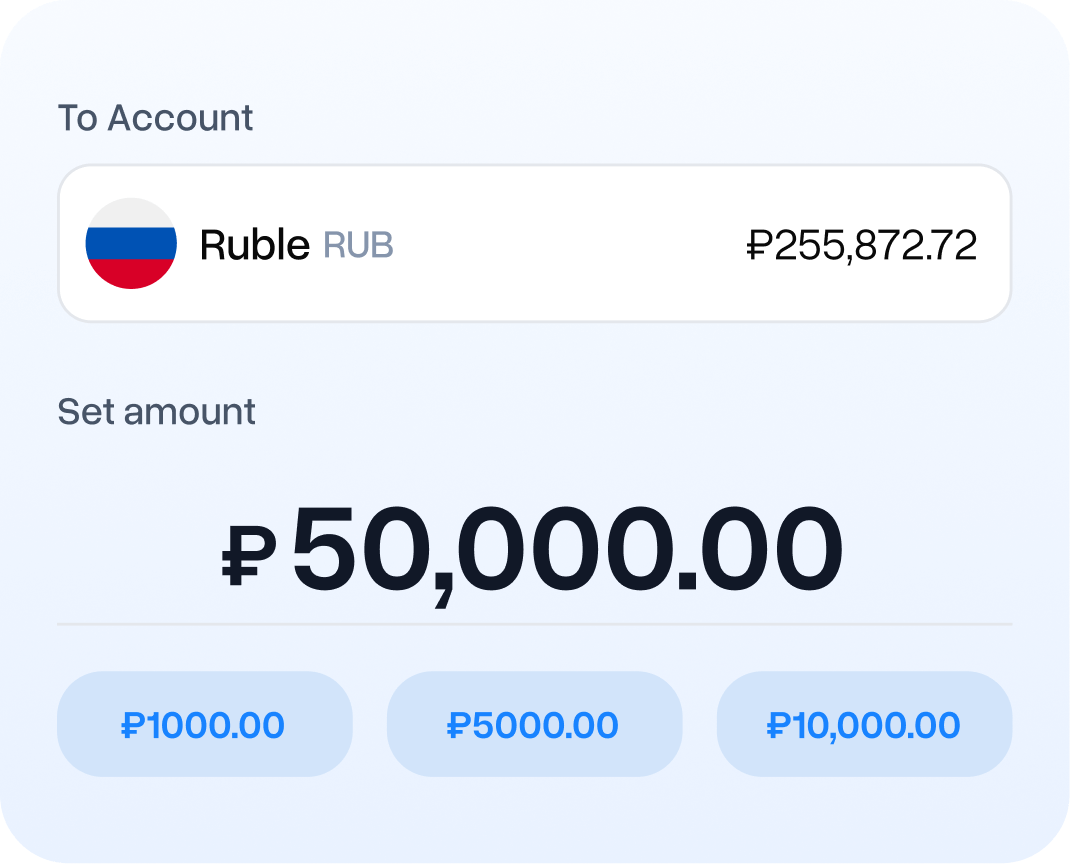
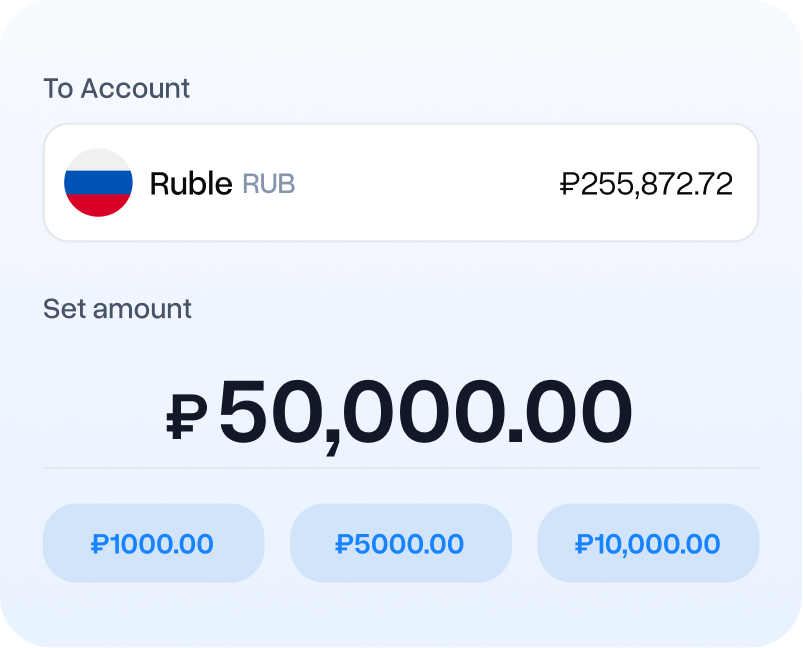
Content & blocks update

diff --git a/styles/style.css b/styles/style.css
@@ -37,7 +37,7 @@
   font-size: var(--font-size-82);
   color: var(--text-title-black);
   font-weight: 500;
-  letter-spacing: -2px;
+  letter-spacing: -1px;
   text-align: center;
   line-height: 106%;
   margin-bottom: var(--spacing-40);
@@ -95,7 +95,7 @@
   font-size: var(--font-size-52);
   font-weight: 500;
   line-height: 106%;
-  letter-spacing: -2px;
+  letter-spacing: -1px;
   border-bottom: 1px solid var(--bg-seperator);
   padding-bottom: var(--spacing-5);
   border-radius: 0;
@@ -203,6 +203,13 @@
 }
 /* exchange block */
 
+/* swap now */
+.swap-now {
+  display: flex;
+  justify-content: center;
+}
+/* swap now */
+
 /* currency rate block */
 .currency-rate {
   display: flex;
@@ -230,14 +237,14 @@
   font-size: var(--font-size-30);
   margin-bottom: var(--spacing-64);
   font-weight: 400;
-  letter-spacing: -2px;
+  letter-spacing: -1px;
   line-height: 120%;
   color: var(--text-title-black);
 }
 
 .currency-rate .range-block .text-notice,
 .currency-rate .chart-block .text-notice {
-  letter-spacing: -2px;
+  letter-spacing: -1px;
   font-size: var(--font-size-24);
   color: var(--text-gray);
   line-height: 120%;
@@ -457,7 +464,7 @@
 .gsap-container .gsap-image.robo .text-box-robo h3 {
   font-size: var(--font-size-80);
   font-weight: 500;
-  letter-spacing: -2px;
+  letter-spacing: -1px;
   background: linear-gradient(
     143deg,
     #fff 18.17%,
@@ -479,7 +486,7 @@
   position: absolute;
   left: 0;
   bottom: 0;
-  letter-spacing: -2px;
+  letter-spacing: -1px;
   width: 100%;
   padding-inline: 7.5% 10%;
   padding-bottom: 10%;
@@ -517,7 +524,7 @@
 .gsap-container .gsap-image.spiral .text-box-spiral h3 {
   font-size: var(--font-size-80);
   font-weight: 500;
-  letter-spacing: -2px;
+  letter-spacing: -1px;
   background: linear-gradient(
     143deg,
     #fff 18.17%,
@@ -534,7 +541,7 @@
   font-size: var(--font-size-30);
   color: var(--text-transparent);
   margin-bottom: var(--spacing-32);
-  letter-spacing: -2px;
+  letter-spacing: -1px;
 }
 
 .gsap-container-mobile {
@@ -569,7 +576,7 @@
   margin-bottom: -5px;
   line-height: 100%;
   font-size: var(--font-size-62);
-  letter-spacing: -2px;
+  letter-spacing: -1px;
   font-weight: 400;
   background: linear-gradient(
     143deg,
@@ -595,7 +602,7 @@
 .beyond-transactions .text-block .statistics h3 {
   color: var(--text-white);
   font-weight: 500;
-  letter-spacing: -2px;
+  letter-spacing: -1px;
   font-size: var(--font-size-96);
 }
 
@@ -633,7 +640,7 @@
 .beyond-transactions .cards-block .card-image h5 {
   font-size: var(--font-size-36);
   font-weight: 400;
-  letter-spacing: -2px;
+  letter-spacing: -1px;
   color: var(--text-white);
   margin-bottom: var(--spacing-15);
 }
@@ -716,7 +723,7 @@
 
 .tabs-block .tabcontent .info-block h3 {
   font-size: var(--font-size-62);
-  letter-spacing: -2px;
+  letter-spacing: -1px;
   font-weight: 500;
   margin-bottom: var(--spacing-74);
 }
@@ -730,7 +737,7 @@
   color: var(--text-body);
   font-size: var(--font-size-22);
   margin-top: var(--spacing-5);
-  letter-spacing: -2px;
+  letter-spacing: -1px;
 }
 
 .tabs-block .tabcontent .image-block {
@@ -770,7 +777,7 @@
 .map .map-heading {
   font-size: var(--font-size-80);
   font-weight: 500;
-  letter-spacing: -2px;
+  letter-spacing: -1px;
   text-align: center;
   background: linear-gradient(
     142.89deg,
@@ -791,11 +798,13 @@
 
 .map .map-image {
   padding: 0 var(--spacing-64) var(--spacing-238) var(--spacing-64);
-  margin-top: var(--spacing-50);
+  margin-top: var(--spacing-120);
+  display: flex;
+  justify-content: center;
 }
 
 .map .map-image img {
-  width: 100%;
+  width: 53.5%;
 }
 
 /* animated cards block */
@@ -883,7 +892,7 @@
 .animated-cards .cards-wrapper.slide-cards .card-item {
   transform: translateX(0);
   font-weight: 500;
-  letter-spacing: -2px;
+  letter-spacing: -1px;
 }
 
 .animated-cards.ru .cards-wrapper .card-item p {
@@ -973,10 +982,7 @@
   letter-spacing: -4px;
   text-align: center;
   line-height: 100%;
-}
-
-.the-future-arrived .content-block h2 .text-move {
-  display: inline-block;
+  transform: translateY(-30%);
 }
 
 .the-future-arrived .content-block .scalable-element {
@@ -991,6 +997,7 @@
   border-radius: 100px;
   background: url("../public/media/images/planet.jpg") center no-repeat;
   background-size: cover;
+  transform: scale(0.1) translateY(130%);
 }
 
 .the-future-arrived .content-block .scalable-element .text-box {
@@ -1014,7 +1021,7 @@
   -webkit-text-fill-color: transparent;
   font-size: var(--font-size-116);
   font-weight: 500;
-  letter-spacing: -2px;
+  letter-spacing: -1px;
   margin-bottom: var(--spacing-40);
 }
 
@@ -1184,6 +1191,7 @@
     overflow-x: auto;
     overflow-y: hidden;
     -webkit-overflow-scrolling: touch;
+    margin-bottom: var(--spacing-20);
   }
 
   .tabs-block .tabs .tablinks {
@@ -1505,89 +1513,5 @@
 }
 
 /* just for last block */
-@media (min-width: 320px) {
-  .the-future-arrived .content-block .scalable-element {
-    transform: scale(0.1) translate(0, 60%);
-  }
-
-  .the-future-arrived .content-block .text-move {
-    padding-left: 2rem;
-  }
-}
-
-/* just for last block */
-@media (min-width: 400px) {
-  .the-future-arrived .content-block .scalable-element {
-    transform: scale(0.1) translate(-65%, 60%);
-  }
-
-  .the-future-arrived .content-block .text-move {
-    padding-left: 2rem;
-  }
-}
-
-@media (min-width: 720px) {
-  .the-future-arrived .content-block .scalable-element {
-    transform: scale(0.1) translate(-70%, 70%);
-  }
-
-  .the-future-arrived .content-block .text-move {
-    padding-left: 4rem;
-  }
-}
-
-@media (min-width: 1024px) {
-  .the-future-arrived .content-block .scalable-element {
-    transform: scale(0.1) translate(-50%, 70%);
-  }
-
-  .the-future-arrived .content-block .text-move {
-    padding-left: 5rem;
-  }
-}
-
-@media (min-width: 1280px) {
-  .the-future-arrived .content-block .scalable-element {
-    transform: scale(0.1) translate(-45%, 80%);
-  }
-
-  .the-future-arrived .content-block .text-move {
-    padding-left: 6rem;
-  }
-}
-
-@media (min-width: 1440px) {
-  .the-future-arrived .content-block .scalable-element {
-    transform: scale(0.1) translate(-50%, 90%);
-  }
-
-  .the-future-arrived .content-block .text-move {
-    padding-left: 5rem;
-  }
-}
-
-@media (min-width: 1600px) {
-  .the-future-arrived .content-block .scalable-element {
-    transform: scale(0.1) translate(-45%, 80%);
-  }
-
-  .the-future-arrived .content-block .scalable-element {
-    transform: scale(0.1) translate(-80%, 80%);
-  }
-}
-
-@media (min-width: 1920px) {
-  .the-future-arrived .content-block .scalable-element {
-    transform: scale(0.1) translate(-37%, 80%);
-  }
-
-  .the-future-arrived.ru .content-block .scalable-element {
-    transform: scale(0.1) translate(-65%, 80%);
-  }
-
-  .the-future-arrived .content-block .text-move {
-    padding-left: 7rem;
-  }
-}
 
 /* just for last block */

diff --git a/ru/index.html b/ru/index.html
@@ -109,7 +109,7 @@
         />
       </section>
 
-      <section class="exchange mb-120">
+      <section class="exchange">
         <div class="exchange-wrapper">
           <div class="exchange-card" id="exchangeWrapperFirst">
             <div class="inputWrapper" id="inputWrapperFirst">
@@ -245,6 +245,10 @@
             </div>
           </div>
         </div>
+      </section>
+
+      <section class="swap-now mb-120">
+        <button class="button">Обменять сейчас</button>
       </section>
 
       <section class="animated-cards ru mb-70">
@@ -450,7 +454,7 @@
           <span class="text-blue">адресу</span>
         </h2>
         <div class="map-image">
-          <img src="../public/media/images/iPhone15.png" alt="Phone Image" />
+          <img src="../public/media/images/iPhoneMap.png" alt="Phone Image" />
         </div>
       </section>
 
@@ -570,17 +574,14 @@
         <div class="content-block">
           <h2>
             Всё в <span class="text-blue">одном месте</span> на <br />
-            любом
-
-            <span class="scalable-element">
-              <div class="text-box">
-                <h2>Будущее наступило</h2>
-                <button class="button min-width">Начать</button>
-              </div>
-            </span>
-
-            <span class="text-move">устройстве</span>
+            любом устройстве
           </h2>
+          <div class="scalable-element">
+            <div class="text-box">
+              <h2>Будущее наступило</h2>
+              <button class="button min-width">Начать</button>
+            </div>
+          </span>
         </div>
       </section>
     </main>

diff --git a/index.html b/index.html
@@ -107,7 +107,7 @@
         />
       </section>
 
-      <section class="exchange mb-120">
+      <section class="exchange">
         <div class="exchange-wrapper">
           <div class="exchange-card" id="exchangeWrapperFirst">
             <div class="inputWrapper" id="inputWrapperFirst">
@@ -243,6 +243,10 @@
             </div>
           </div>
         </div>
+      </section>
+
+      <section class="swap-now mb-120">
+        <button class="button">Swap Now</button>
       </section>
 
       <section class="animated-cards mb-70">
@@ -439,7 +443,7 @@
           <span class="text-blue">address</span>
         </h2>
         <div class="map-image">
-          <img src="./public/media/images/iPhone15.png" alt="Phone Image" />
+          <img src="./public/media/images/iPhoneMap.png" alt="Phone Image" />
         </div>
       </section>
 
@@ -561,17 +565,14 @@
         <div class="content-block">
           <h2>
             All in <span class="text-blue">one place</span> on <br />
-            any
-
-            <span class="scalable-element">
-              <div class="text-box">
-                <h2>The Future has arrived</h2>
-                <button class="button">Get Started</button>
-              </div>
-            </span>
-
-            <span class="text-move">device</span>
+            any device
           </h2>
+          <div class="scalable-element">
+            <div class="text-box">
+              <h2>The Future has arrived</h2>
+              <button class="button">Get Started</button>
+            </div>
+          </span>
         </div>
       </section>
     </main>
